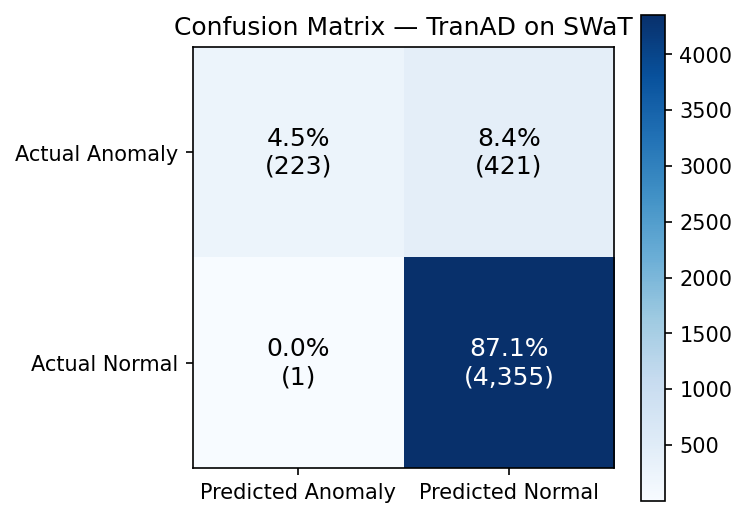
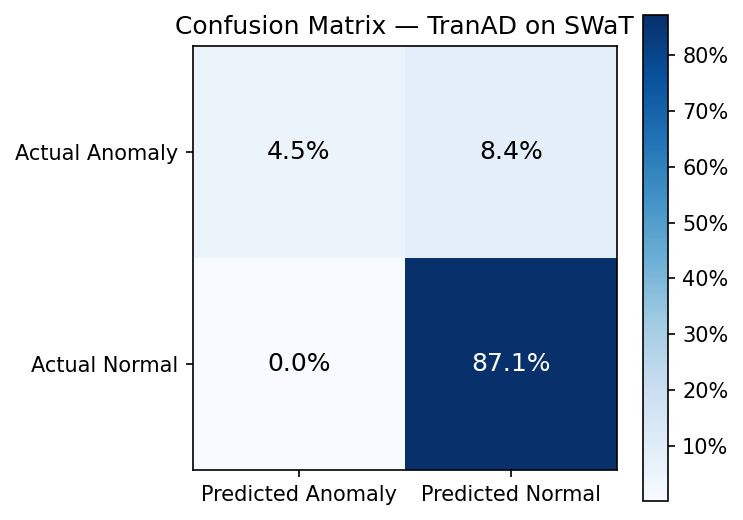
missed anomalies

diff --git a/Thesis/thesis.tex b/Thesis/thesis.tex
@@ -25,7 +25,7 @@
 \usepackage{multirow}
 \usepackage{makecell}
 \usepackage{soul}
-\usepackage{siunitx}   % add to preamble if not already present
+\usepackage{siunitx} 
 \usepackage{booktabs}
 \usepackage{multirow}
 \usepackage{makecell}
@@ -58,8 +58,6 @@
 
 \todo{in English\dots}
 
-\chapter*{Acknowledgments}
-\addcontentsline{toc}{chapter}{Acknowledgments}
 
 \todo{\dots}
 
@@ -167,28 +165,12 @@ Temporal anomalies can be compared against neighbouring points (\textit{local}) 
  
     \item \textbf{Seasonal anomaly:}
     An unusual seasonality pattern despite otherwise normal shape and trend --- the frequency of rises and drops in a specific segment differs from the expected seasonal cycle.
-    Detected via:
-    \begin{equation}
-        \mathrm{diss}_s(S,\, \hat{S}) > \theta
-        \label{eq:seasonal}
-    \end{equation}
-    where $S$ is the observed seasonality, $\hat{S}$ is the expected seasonality, and $\mathrm{diss}_s$ measures their dissimilarity.
  
     \item \textbf{Trend anomaly:}
     A permanent shift in the data's mean that alters the slope of the time series, while preserving its cycle and seasonality (e.g., a metric that rises abruptly and then drops following an external event).
-    Detected via:
-    \begin{equation}
-        \mathrm{diss}_t(T,\, \hat{T}) > \theta
-        \label{eq:trend}
-    \end{equation}
  
     \item \textbf{Shapelet anomaly:}
     A subsequence whose shape or cycle pattern differs distinctly from the rest of the series (e.g., unusual economic fluctuation patterns due to demand-supply shocks).
-    Detected via:
-    \begin{equation}
-        \mathrm{diss}_c(C,\, \hat{C}) > \theta
-        \label{eq:shapelet}
-    \end{equation}
  
 \end{itemize}
  
@@ -230,7 +212,7 @@ Before the widespread adoption of deep learning, TSAD relied on several classica
     \item \textbf{Clustering-based methods:} Learn a normal profile of time series windows and 
     use the distance to the centroid of normal clusters as an anomaly score, or identify clusters 
     with few members as anomalous \citep{darban2024survey}. More recent methods in this 
-    category first cluster data to obtain a representation of normal behaviour and then compute 
+    category first cluster the data to obtain a representation of normal behaviour and then compute 
     the distance to this normal behaviour to detect anomalies \citep{boniol2023trends}.
     \item \textbf{Distance-based methods:} Use the distance from a time window to its nearest 
     neighbours as an anomaly score \citep{darban2024survey}. A prominent example is 
@@ -262,7 +244,7 @@ A range of deep architectures has been explored for anomaly detection, including
     modelling of long-term dependencies. Notable models in this category include LSTM-AD 
     \citep{malhotra2015lstm}, which uses hierarchical recurrent layers for unsupervised anomaly 
     detection in univariate time series, and LSTM-NDT \citep{hundman2018detecting}, which 
-    combines LSTM with nonparametric dynamic thresholding for spacecraft anomaly detection. 
+    combines LSTM with Nonparametric Dynamic Thresholding (NDT) \citep{hundman2018ndt}  for spacecraft anomaly detection. 
     GRU \citep{cho2014properties} offers a simpler gating structure than LSTM, leading to faster training times while 
     retaining the ability to capture temporal dependencies \citep{darban2024survey}.
 
@@ -291,7 +273,7 @@ A range of deep architectures has been explored for anomaly detection, including
     \citep{darban2024survey}. VAEs extend this framework by encoding inputs as 
     distributions rather than single points, enabling probabilistic anomaly scoring. 
     OmniAnomaly \citep{su2019robust} uses a VAE with stochastic RNNs for robust 
-    representations of multivariate data and applies POT \citep{siffer2017pot} for thresholding. USAD 
+    representations of multivariate data and applies Peaks-Over-Threshold (POT) \citep{siffer2017pot} for thresholding. USAD 
     \citep{audibert2020usad} employs adversarially trained AEs to amplify reconstruction 
     errors and distinguish anomalies more reliably. RANSynCoders \citep{abdulaal2021practical} 
     proposes an architecture with multiple encoders and decoders using random feature 
@@ -334,9 +316,7 @@ A range of deep architectures has been explored for anomaly detection, including
 \end{itemize}
  
 Deep TSAD models process inputs either point-by-point or using sliding windows, and output either continuous anomaly scores or binary labels \citep{darban2024survey}.
-Common thresholding methods applied to anomaly scores include 
-Nonparametric Dynamic Thresholding (NDT) \citep{hundman2018ndt} 
-and Peaks-Over-Threshold (POT) \citep{siffer2017pot}.
+Common thresholding methods applied to anomaly scores include NDT \citep{hundman2018ndt} and POT \citep{siffer2017pot}.
  
 \subsubsection{Learning Schemes}
  
@@ -394,6 +374,9 @@ Hybrid models integrate the strengths of multiple approaches --- for example, co
 This allows the model to simultaneously benefit from prediction accuracy and latent space regularity \citep{darban2024survey}.
 
 
+
+
+
 %%%%%%%%%%%%%%%%%%%%%%%%%%%%%%%%%%%%%%%%%%%%%%%%%%%%%%%%%%%%%%%%%%%%%%%
 
 \chapter{Chosen Models}
@@ -415,23 +398,21 @@ while their different internal designs --- TimesNet's 2D transformation versus M
 large-kernel depthwise convolution --- make the comparison informative about what drives 
 CNN performance in TSAD.
 
-TranAD \citep{tranad2022} was selected as a representative of the Transformer-based 
-family, providing an architectural contrast to the two CNN-based models. Beyond 
-detection accuracy, TranAD proved particularly compelling because of its efficiency 
-profile: it demonstrated competitive inference speed and low memory footprint alongside 
-strong F1 scores, making it a strong candidate for resource-constrained edge deployment. 
-This combination of accuracy and efficiency motivated a deeper investigation into 
-Transformer-based models, leading to the selection of two additional candidates.
+TranAD \citep{tranad2022} was selected as a representative of the Transformer-based
+family, providing an architectural contrast to the two CNN-based models. Beyond
+detection accuracy, TranAD was included for its efficiency-oriented design: its
+compact encoder-decoder architecture make it a promising
+candidate for resource-constrained edge deployment.
 
-Anomaly Transformer \citep{anomalytransformer2022} was selected because its authors 
-reported higher detection accuracy than TranAD across several benchmarks, making it a 
+Anomaly Transformer \citep{anomalytransformer2022} was selected because it shows 
+higher detection accuracy than TranAD across several benchmarks, making it a 
 natural next candidate within the Transformer family. Its association discrepancy 
 criterion --- which measures how a time point's attention distributes across the series 
 rather than how poorly it is reconstructed --- represents a fundamentally different 
 detection philosophy from TranAD's adversarial reconstruction amplification, making the 
 comparison between the two architecturally and methodologically interesting.
 
-GTA \citep{gta2022} was selected because it was explicitly designed for IoT sensor 
+GTA \citep{gta2022} is a model designed for IoT sensor 
 data, which is directly relevant to the edge deployment focus of this thesis. Its 
 graph-based architecture learns the dependency structure between sensors end-to-end, 
 making it the only model in the evaluation set to explicitly model inter-sensor 
@@ -529,10 +510,10 @@ reconstruction error exceeds a threshold.
 
 ModernTCN \citep{moderntcn2024} is a pure convolution-based backbone for general
 time series analysis. Like
-TimesNet, it targets five mainstream time series analysis tasks simultaneously ---
-short- and long-term forecasting, imputation, classification, and anomaly detection --- but takes a
+TimesNet, it targets five mainstream time series analysis tasks simultaneously (
+short- and long-term forecasting, imputation, classification, and anomaly detection) but takes a
 fundamentally different approach: rather than transforming the time series into 2D
-space, ModernTCN stays in 1D and instead modernises the convolution operation itself
+space, ModernTCN instead modernises the convolution operation itself
 \citep{moderntcn2024}. In the context of this thesis, it is evaluated strictly as an
 anomaly detection model.
 
@@ -582,7 +563,7 @@ three components that each handle a distinct type of information mixing
     \label{fig:moderntcn_block}
 \end{figure}
 
-The first component, \textbf{DWConv}, is a depthwise convolution with a large kernel
+The first component, \textbf{DWConv}, is a depthwise convolution \citep{howard2017mobilenets} with a large kernel
 --- by default size 51 --- applied independently per channel along the temporal
 dimension. This is the component responsible for capturing temporal dependencies, and
 the large kernel is what gives ModernTCN its wide effective receptive field. Each
@@ -604,22 +585,6 @@ ModernTCN applies the same \textbf{reconstruction-based} strategy as TimesNet fo
 anomaly detection. The model is trained to reconstruct normal input windows, and
 anomalies are flagged at inference time based on reconstruction error exceeding a
 threshold.
-
-\subsection{Relation to TimesNet}
-
-Since both ModernTCN and TimesNet are CNN-based task-general backbones evaluated on
-the same benchmarks, a brief comparison is useful. Both models successfully enlarge the
-effective receptive field beyond traditional TCNs, but they do so in different ways.
-TimesNet reshapes the 1D series into 2D tensors to exploit 2D convolutional kernels from
-computer vision, while ModernTCN stays in 1D and instead enlarges the kernel of the
-depthwise convolution directly. The authors of ModernTCN note that the 2D
-transformation in TimesNet disrupts the locality of the receptive field --- adjacent
-time points can end up separated after reshaping --- whereas ModernTCN maintains a
-contiguous, locally-focused receptive field that expands smoothly outward from each
-time point \citep{moderntcn2024}. In terms of efficiency, ModernTCN is reported to
-reduce training time by approximately 57\% compared to TimesNet on the anomaly
-detection benchmarks, while achieving comparable or better F1 scores
-\citep{moderntcn2024}.
 
 
 \section{TranAD}
@@ -692,7 +657,7 @@ the loss function uses an \textbf{evolving weight} that starts by emphasising pu
 reconstruction and gradually shifts weight towards the adversarial objective as the
 reconstructions improve \citep{tranad2022}.
 
-Additionally, TranAD incorporates \textbf{model-agnostic meta-learning} (MAML)
+Additionally, TranAD incorporates \textbf{model-agnostic meta-learning}
 \citep{finn2017maml}, which performs an additional gradient update at the end of each
 epoch to help the model generalise quickly from limited training data. The authors
 report that this component is particularly important when only a fraction of the
@@ -703,7 +668,7 @@ normal training data is available \citep{tranad2022}.
 TranAD is a \textbf{reconstruction-based} model. At inference time, the anomaly
 score for each window is defined as the average of the reconstruction errors from
 the two phases. A timestamp is flagged as anomalous when this score exceeds a
-threshold determined automatically using Peaks-Over-Threshold (POT)
+threshold determined automatically using POT
 \citep{siffer2017pot}. A timestamp is labelled anomalous if any of its $m$ dimensions
 exceeds the threshold, which also enables \textbf{anomaly diagnosis} --- identifying
 which specific sensor or variable is responsible for the anomaly.
@@ -811,21 +776,6 @@ inference time, each time point receives a scalar anomaly score combining its
 reconstruction error and its normalised association discrepancy. A time point is
 flagged as anomalous when this score exceeds a threshold, determined from the
 validation set by selecting the proportion of data to label as anomalous
-\citep{anomalytransformer2022}.
-
-\subsection{Relation to TranAD}
-
-Both Anomaly Transformer and TranAD are Transformer-based models designed exclusively
-for anomaly detection, trained without labels, and relying on reconstruction error as
-part of their anomaly criterion. Their key difference lies in how they go beyond
-simple reconstruction. TranAD introduces adversarial training to amplify reconstruction
-errors directly \citep{tranad2022}, while Anomaly Transformer introduces a
-complementary association-based criterion that captures a structurally different
-signal: not how much the reconstruction fails, but how the model's attention
-distributes across time. Furthermore, TranAD conditions its second decoding phase on
-the first-phase reconstruction error, whereas Anomaly Transformer has no such
-sequential phasing --- it processes the full window in a single forward pass per
-layer, producing the association discrepancy and reconstruction jointly
 \citep{anomalytransformer2022}.
 
 
@@ -1222,6 +1172,8 @@ backlog.
 
 \section{Datasets}
 
+The statistics of the 5 selected datasets are provided in Table~\ref{tab:dataset_stats}.
+
 \paragraph{Server Machine Dataset (SMD).}
 
 The Server Machine Dataset (SMD) \cite{su2019smd} is a real-world multivariate time series dataset
@@ -1280,6 +1232,7 @@ of the test set time steps are labelled anomalous.
 \begin{table}[ht]
 \centering
 \caption{Dataset Statistics}
+\label{tab:dataset_stats}
 \begin{tabular}{llrrrrrr}
 \toprule
 \textbf{Dataset} & \textbf{Domain} & \textbf{Dim.} 
@@ -1481,10 +1434,10 @@ AU-PR exposes differences between models that point-adjusted F1 alone would conc
 \end{figure}
 
 Figure~\ref{fig:cm_tranad_swat} shows the confusion matrix for TranAD on SWaT. 
-Out of the total anomalous points in the test set, only 223 
-are flagged as anomalous (true positives), while 421 are missed entirely (false negatives). At 
-the same time, only 1 normal point is incorrectly flagged as anomalous (false positive), and 
-4,355 normal points are correctly identified as normal (true negatives).
+Out of the total anomalous points in the test set, only 4.5\% 
+are flagged as anomalous (true positives), while 8.4\%  are missed entirely (false negatives). At 
+the same time, only 1 normal point (0.0002\%) is incorrectly flagged as anomalous (false positive), and 
+87.1\%  normal points are correctly identified as normal (true negatives).
 
 TranAD almost never raises a false alarm (only 1 false positive), but as a consequence misses 
 nearly two thirds of all anomalous points at the point level. It is important to note that 
@@ -1493,6 +1446,124 @@ protocol, any anomaly segment in which at least one point is correctly flagged i
 fully detected \citep{su2019smd}, which substantially changes the effective recall and explains 
 why the PA F1 reported in Table~\ref{tab:accuracy} is considerably higher than these raw counts 
 would suggest.
+
+\subsubsection{Missed Detections on SMAP}
+
+On the SMAP dataset, the two CNN-based models perform considerably worse than 
+the transformer-based models, with TimesNet achieving an F1 of 68.47\% and ModernTCN 
+67.46\%, compared to Anomaly Transformer's 96.41\% which achieved the highest score. 
+As shown in Table~\ref{tab:accuracy}, the primary driver of this gap is recall: TimesNet 
+and ModernTCN achieve only 55.44\% and 53.85\% respectively, indicating that 
+both models miss roughly half of all true anomaly segments. To illustrate 
+concretely where this difference originates, Figure~\ref{fig:smap_cnn_recon}, and \ref{fig:smap_anomalytransformer_recon} show 
+the same stretch of the SMAP test set (global timesteps 371,000--393,000) for all 
+three models. This segment contains five consecutive ground truth anomaly windows 
+(orange) that are missed entirely by both CNN-based models but successfully 
+detected by Anomaly Transformer.
+
+\begin{figure}[p]
+    \centering
+    \includegraphics[width=\textwidth]{smap_timesnet_signal_recon.png}
+    \vspace{0.5em}
+    \includegraphics[width=\textwidth]{smap_moderntcn_signal_recon.png}
+    \caption{Reconstruction error visualisation for TimesNet (top) and ModernTCN 
+    (bottom) on SMAP. For each model, the 
+    three panels show: the input signal with ground truth anomaly windows 
+    (orange); the input signal versus the model reconstruction (dashed green); 
+    and the per-timestep reconstruction error aggregated across all 25 channels 
+    versus the decision threshold (dashed orange). Blue shading indicates 
+    timesteps flagged as anomalous by each model.}
+    \label{fig:smap_cnn_recon}
+\end{figure}
+
+\begin{figure}[ht]
+    \centering
+    \includegraphics[width=\textwidth]{smap_anomalytransformer_signal_recon.png}
+    \caption{Anomaly Transformer on SMAP. 
+    The three panels show: the input signal with ground truth anomaly windows 
+    (orange); the input signal versus the reconstruction (dashed green); and 
+    the per-timestep anomaly score --- combining reconstruction error and 
+    association discrepancy --- versus the decision threshold 
+    (dashed orange). Blue shading indicates timesteps flagged as anomalous.}
+    \label{fig:smap_anomalytransformer_recon}
+\end{figure}
+
+\paragraph{Anomaly scoring and threshold.}
+All three models are trained on normal data only using MSE as the training loss, 
+and all three follow the same threshold protocol: $\delta$ is determined to make 
+$r = 1\%$ of the validation scores exceed it \citep{anomalytransformer2022}. 
+However, their anomaly scores are computed differently.
+
+TimesNet and ModernTCN both use plain reconstruction error as their anomaly 
+criterion \citep{timesnet2023, moderntcn2024}. The per-timestep score is the MSE 
+between the input and reconstruction averaged across all $d$ channels:
+
+\begin{equation}
+    s_t = \frac{1}{d} \sum_{i=1}^{d} \left( x_t^{(i)} - \hat{x}_t^{(i)} \right)^2
+    \label{eq:recon_score}
+\end{equation}
+
+This yields thresholds of $\delta = 0.4787$ for TimesNet and $\delta = 5.8932$ 
+for ModernTCN. The difference in absolute threshold values reflects the different 
+internal score scales of the two models, not a difference in strictness --- both 
+are calibrated to flag the same proportion of validation points.
+
+Anomaly Transformer uses a fundamentally different anomaly score that combines 
+reconstruction error with an association discrepancy term 
+\citep{anomalytransformer2022}.
+
+\begin{equation}
+    \text{AnomalyScore}(\mathcal{X}) = \text{Softmax}(-\text{AssDis}(P, S; 
+    \mathcal{X})) \odot \left[\|X_{i,:} - \hat{X}_{i,:}\|_2^2\right]_{i=1,\cdots,N}
+    \label{eq:anomaly_transformer_score}
+\end{equation}
+
+The association discrepancy measures how differently a time point attends to the 
+rest of the series compared to what would be expected under normal conditions. 
+Normal points tend to concentrate their attention on temporally adjacent points, 
+following a Gaussian prior. Anomalous points, which do not share patterns with 
+their neighbours, deviate from this prior, producing a large discrepancy. 
+Multiplying this with the reconstruction error means that even when the 
+reconstruction error alone is low, the association discrepancy can still elevate 
+the anomaly score, giving the model sensitivity to anomalies that a purely 
+reconstruction-based approach would miss \citep{anomalytransformer2022}. 
+This yields a threshold of $\delta = 0.0012$ for Anomaly Transformer.
+
+\paragraph{Analysis of the visualisations.}
+Figure~\ref{fig:smap_cnn_recon} and 
+\ref{fig:smap_anomalytransformer_recon} show the input signal, reconstruction, 
+and anomaly score relative to the decision threshold for all three models over 
+the same segment of the SMAP test set. Note that while the plots display a single 
+representative channel, the reconstruction error shown in the bottom panel is 
+aggregated across all 25 SMAP channels simultaneously, meaning that the score 
+at any given timestep reflects the combined reconstruction quality across the 
+entire multivariate signal.
+
+For both TimesNet and ModernTCN, the reconstruction error remains well below 
+the threshold throughout the five consecutive ground truth anomaly segments 
+(orange), including the large oscillation amplitude change around timesteps 
+383,000--386,000. The green dashed reconstruction closely follows the input 
+signal during this period, suggesting that both models reconstruct the anomalous 
+pattern sufficiently well that it does not produce a detectable increase in MSE. 
+Brief threshold crossings are visible at sharp signal transitions, 
+but these spikes are narrow and do not correspond 
+to the labelled anomaly windows. This is because the spike anomalies are very 
+short in duration: even when a few timesteps are poorly reconstructed, their 
+contribution to the MSE is averaged over the entire 100-timestep window and 
+further diluted across all 25 channels, resulting in an aggregate error that 
+does not reliably exceed the threshold.
+
+The Anomaly Transformer plot presents a markedly different picture. The threshold 
+of $\delta = 0.0012$ is extremely low relative to the score range, and the 
+anomaly score crosses it frequently throughout the segment, producing many short, 
+regularly-spaced detections in both normal and anomalous regions. As a result, 
+at least one timestep within each of the five ground truth anomaly windows is 
+flagged, and under the point-adjust protocol each window is therefore credited 
+as fully detected. This behaviour is consistent with the known tendency of 
+point-adjusted F1 to overestimate detection performance when a model flags 
+anomalies at a high base rate \citep{darban2024carla}, and is reflected in 
+Anomaly Transformer's modest AU-PR on SMAP (12.90\%) relative to its F1 
+(96.41\%).
 
 
 
@@ -2120,7 +2191,7 @@ second-highest \underline{underlined}.}
     & \thead{\textbf{AnomTr.}\\\citep{anomalytransformer2022}}
     & \thead{\textbf{GTA}\\\citep{gta2022}} \\
 \midrule
-\multirow{5}{*}{\rotatebox[origin=c]{90}{\textbf{Latency (ms)}}}
+\multirow{5}{*}{\rotatebox[origin=c]{90}{\textbf{Latency}}}
 & SMD  & 140.2 & \textbf{6.6}  & \underline{10.2} & 33.0 & 63.2 \\
 & MSL  & 145.0 & \textbf{8.8}  & \underline{16.1} & 33.4 & 69.3 \\
 & SMAP &  42.4 & \underline{12.4} & \textbf{8.2}  & 33.5 & 59.3 \\
@@ -2128,7 +2199,7 @@ second-highest \underline{underlined}.}
 & PSM  &  54.0 & \underline{12.4} & \textbf{8.3}  & 34.5 & 59.7 \\
 & Avg  & 106.6 & \textbf{9.7}  & \underline{10.9} & 33.7 & 64.0 \\
 \midrule
-\multirow{5}{*}{\rotatebox[origin=c]{90}{\textbf{Throughput (s/s)}}}
+\multirow{5}{*}{\rotatebox[origin=c]{90}{\textbf{Throughput}}}
 & SMD  &   912.9 & \textbf{19482.4} & \underline{12598.0} & 3882.0 & 2024.0 \\
 & MSL  &   882.7 & \textbf{14524.5} & \underline{7935.0}  & 3833.0 & 1848.3 \\
 & SMAP & 3022.2 & \underline{10342.3} & \textbf{15519.0} & 3820.2 & 2158.1 \\
